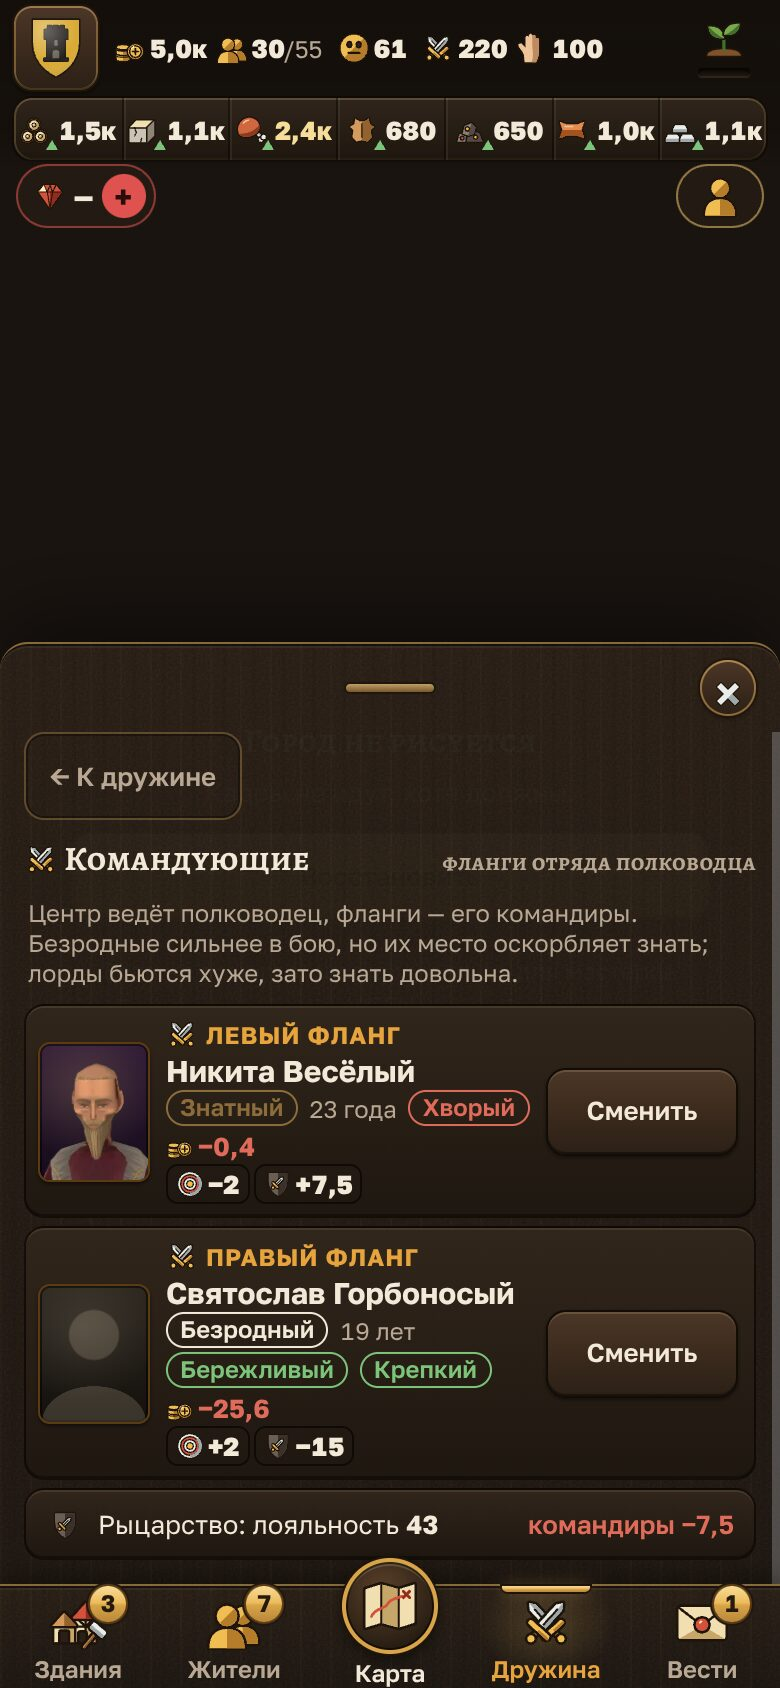
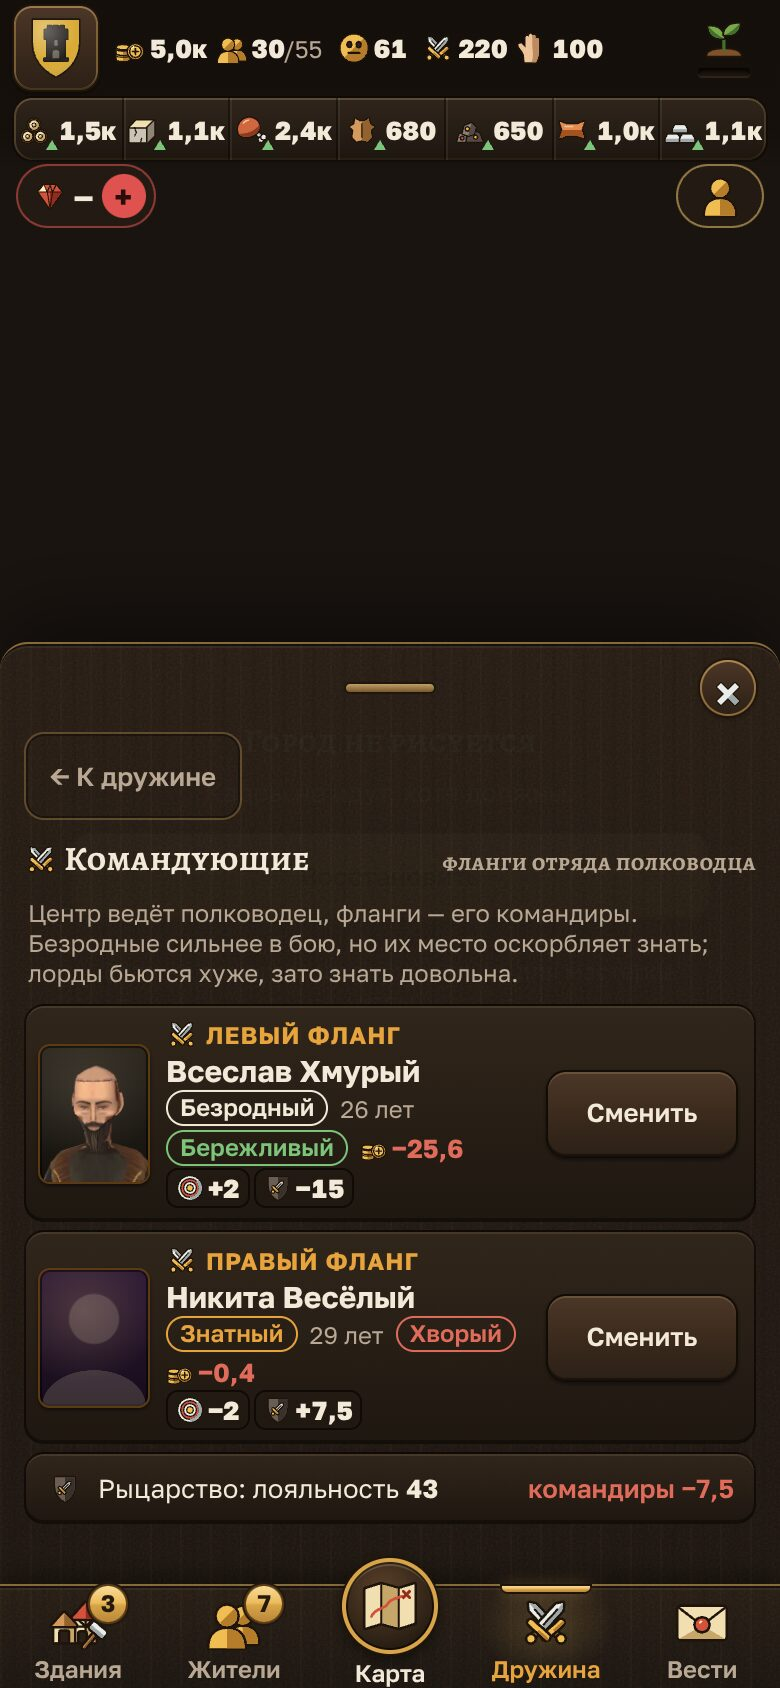
ДР-3: снимки с ярлыком «Знатный» цветом акцента, первая загрузка 606,5 КБ (docs/siege_v2.md 26.5, справочник сборки)
Claude-Session: https://claude.ai/code/session_01UFaFuCUJ6vvSJ6tn3JkTWP

diff --git a/docs/handbook/bundle.md b/docs/handbook/bundle.md
@@ -435,3 +435,9 @@
 уплаченного в `sim/upkeep`, множители `SPIRIT` в ядре боя, чтение духа в договоре). Окно — мораль и дисциплина с разбором, состав,
 жалованье и роспуск (`ui/parts/ArmyDesk`, `army.css`, `spiritWords`) — в куске нового вида с «Дружиной», не в первой загрузке
 (docs/siege_v2.md, 24.5).
+
+**Командиры флангов ДР-3 (26.10.2026, облако, `game/dr-3`).** Опись `npm run build`: первая загрузка **606.5 КБ** (у ДР-2 — 604.2) —
+**+2.3 КБ**: правила `game/commandrules`, дверь `sim/command` (шаг, опись, мост), слагаемое знати и жалованье в `derived`, кость
+полосы `flankPips` в ядре боя, две вести знати в таблице вестей, строка «Командующие» в «Дружине» (`ui/parts/CommandLine`). Меню
+«Командующие» с кандидатами и наймом (`ui/next/CommandDesk`, `command.css`, `sim/commanders`) — ленивым куском по кнопке; слова вестей
+— куском «Вестей» (docs/siege_v2.md, 26.5).
